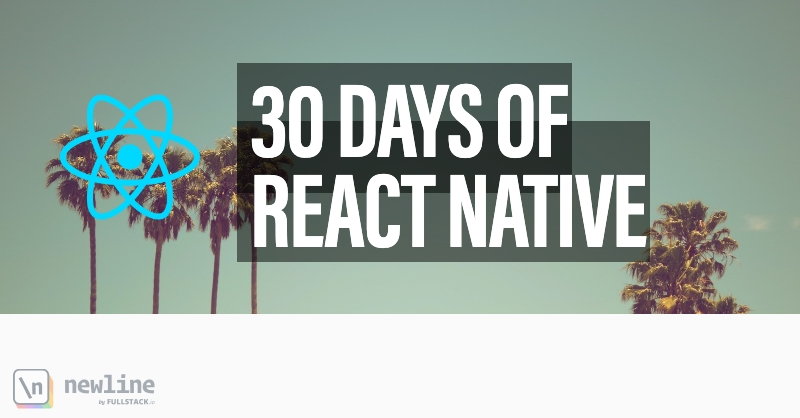
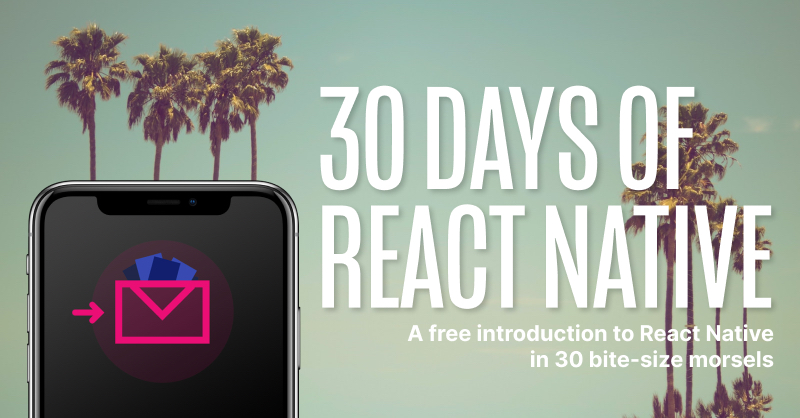
updated images

diff --git a/config.js b/config.js
@@ -9,8 +9,8 @@ module.exports = ({ dedent }) => ({
   heroLogoUrl: "./images/react-native-logo.png",
   heroPhotoUrl: "./images/corey-agopian-5y4ljzRrDFA-unsplash.jpg",
   heroPhotoBackgroundPosition: "50% 75%;",
-  paperBookPhotoUrl: "./images/30-days-of-react-native-hardcover.jpg",
-  paperBookPhotoUrlPng: "./images/30-days-of-react-native-hardcover.png",
+  paperBookPhotoUrl: "./images/landing-page-overview-graphic.png",
+  paperBookPhotoUrlPng: "./images/landing-page-overview-graphic.png",
   publicLessonCount: 15,
   previewPercent: 60,
   brandAccentColor1: "#40b882",

diff --git a/README.md b/README.md
@@ -1,5 +1,5 @@
 <p align="center">
-  <img src="./images/30-days-of-react-native-hardcover@2x_v2.png"/>
+  <img src="./images/30-days-of-rn-poster.png"/>
 </p>
 <h3 align="center">
   ✨ 30 Days of React Native ✨
